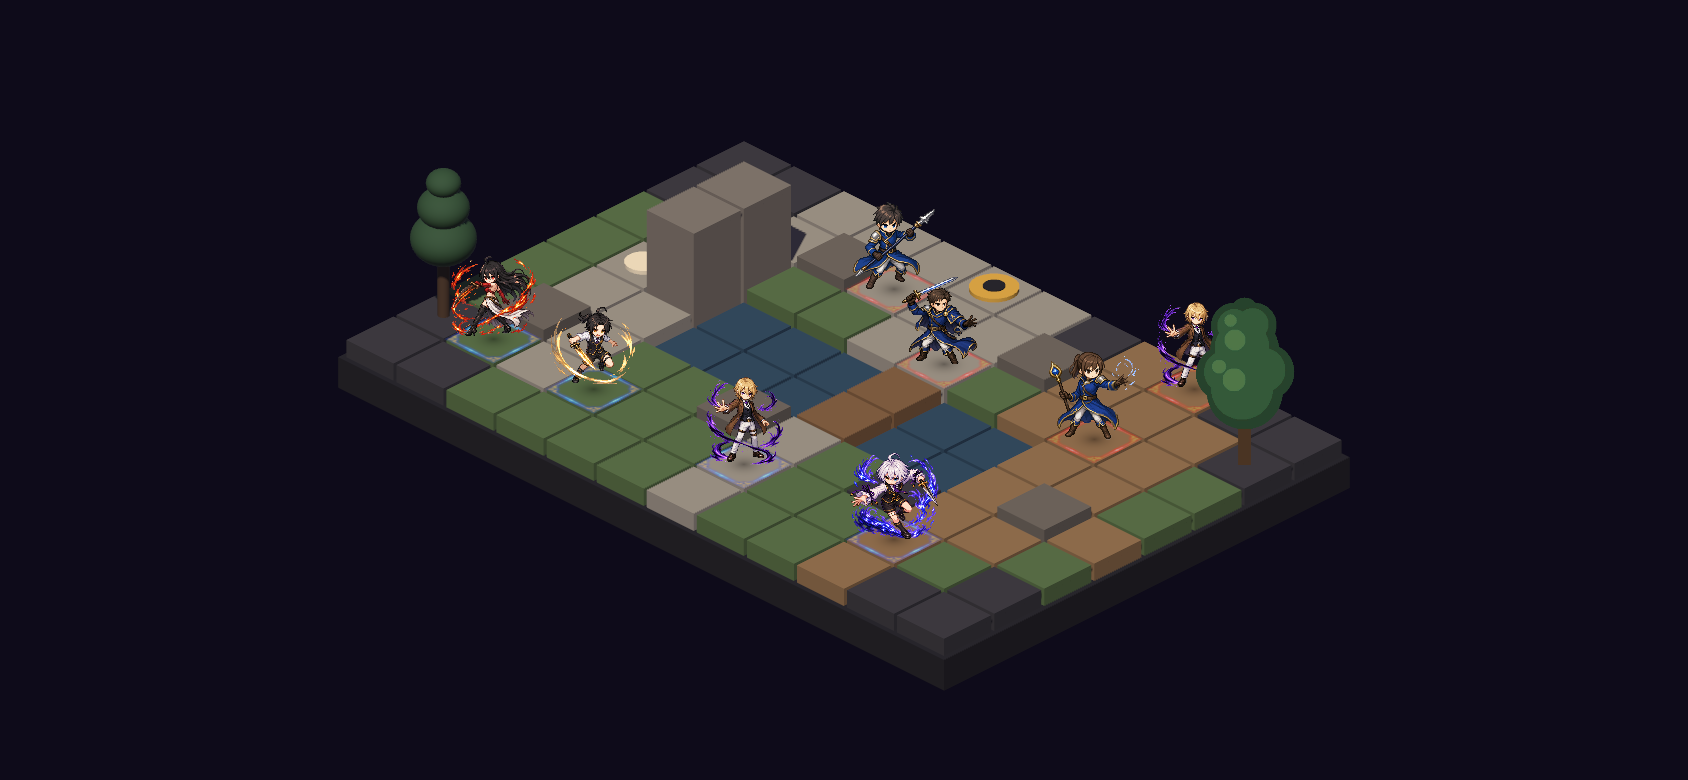
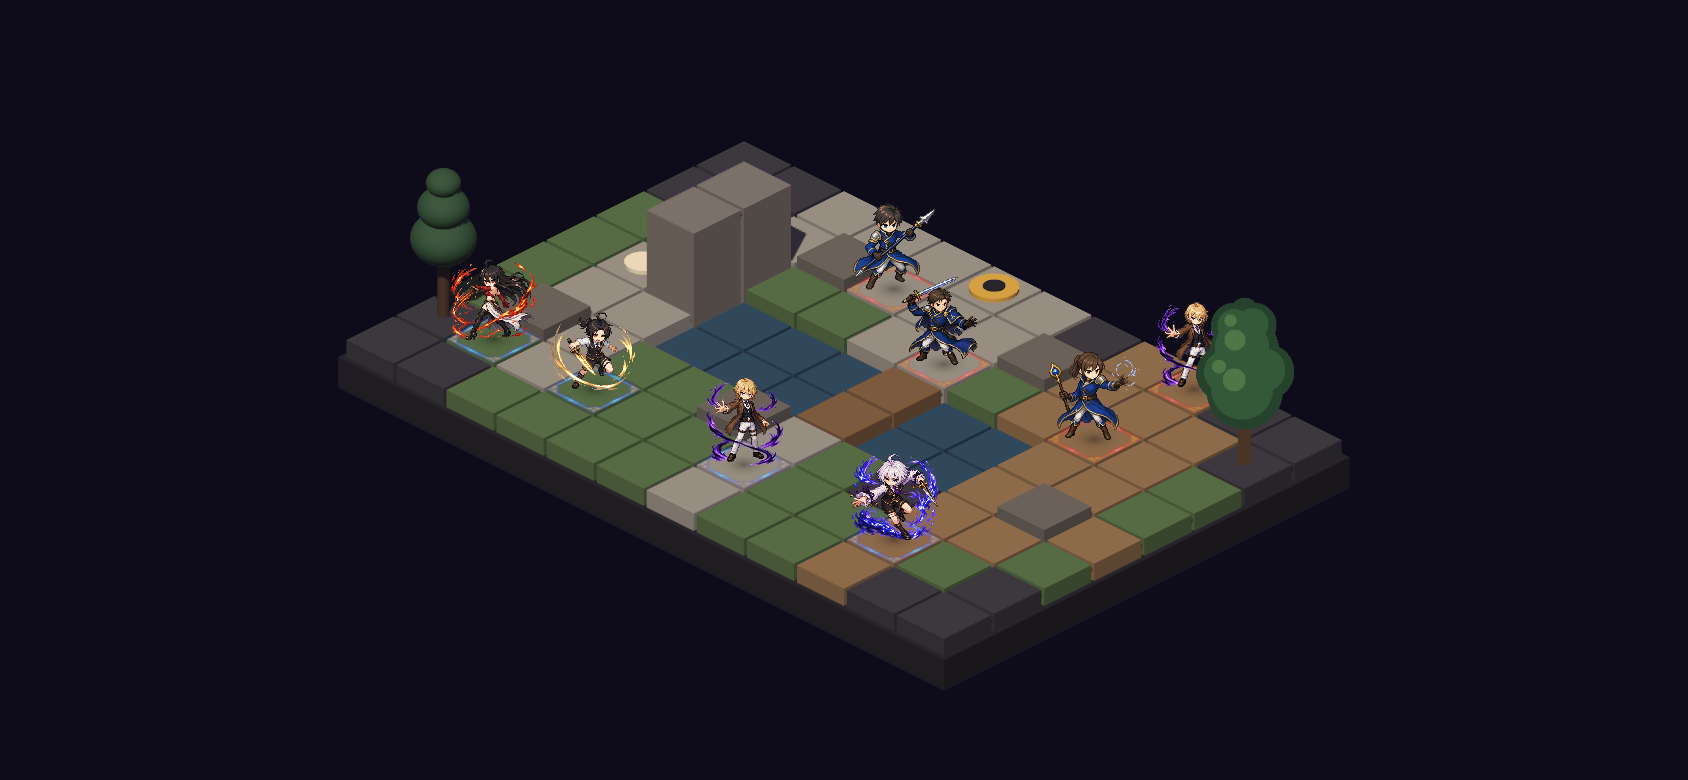
unity: stand every sprite's feet on the cell surface
The builder measures each character sprite's lowest opaque row and the
3D board test lowers the sprite by that much, so feet meet the cell top
regardless of the empty space below them. Sprite import settings shared
with M1 are unchanged; previews are re-rendered.

diff --git a/unity-prototype/Assets/Scripts/Battle/Board3D/Board3DTestController.cs b/unity-prototype/Assets/Scripts/Battle/Board3D/Board3DTestController.cs
@@ -31,6 +31,9 @@ namespace Srpg.Battle
         {
             public string id;
             public Sprite sprite;
+            // 絵の基準点（下端から2%）から、一番下の色のある行までの距離（絵の高さに対する割合。上が＋）。
+            // 組み立て時に絵ごとに測る。この分だけ絵を下げて、足の裏をマスの面にそろえる（原作者 2026-09-27）
+            public float footFromPivot;
         }
 
         [SerializeField] private Camera targetCamera;
@@ -67,6 +70,7 @@ namespace Srpg.Battle
             public float height;
             public float scale;
             public bool fitCell;
+            public float footFromPivot;
         }
 
         private readonly List<Billboard> billboards = new List<Billboard>();
@@ -151,7 +155,7 @@ namespace Srpg.Battle
             char m = Board3DLayout.MarkerAt(cell);
             bool enemy = m == 'E' || m == 'C';
             var top = Board3DLayout.TopCenter(cell);
-            float feet = 0.03f;   // 陣営の枠（0.014）より上
+            float feet = 0.005f;   // 足の裏はマスの面（重なり順は描く順で決めるので、浮かせなくてよい）
             if (footStyle == FootStyle.Pedestal)
             {
                 var pedestal = GameObject.CreatePrimitive(PrimitiveType.Cylinder);
@@ -175,9 +179,11 @@ namespace Srpg.Battle
             }
 
             Sprite sprite = null;
-            foreach (var entry in unitSprites) if (entry.id == id) sprite = entry.sprite;
+            float footFromPivot = 0f;
+            foreach (var entry in unitSprites)
+                if (entry.id == id) { sprite = entry.sprite; footFromPivot = entry.footFromPivot; }
             if (sprite == null) return;   // 絵のないキャラは足元だけ
-            AddBillboard($"Unit_{id}", sprite, top + Vector3.up * feet, unitHeight, true);
+            AddBillboard($"Unit_{id}", sprite, top + Vector3.up * feet, unitHeight, true, footFromPivot);
         }
 
         /// <summary>地面に寝かせた絵（足元の影・陣営の輪）。size はマスに対する直径</summary>
@@ -230,7 +236,7 @@ namespace Srpg.Battle
         }
 
         /// <summary>板に貼った絵を立てる。足元（絵の下端の中央）が position に来る</summary>
-        private void AddBillboard(string objectName, Sprite sprite, Vector3 position, float height, bool fitCell = false)
+        private void AddBillboard(string objectName, Sprite sprite, Vector3 position, float height, bool fitCell = false, float footFromPivot = 0f)
         {
             var holder = new GameObject(objectName).transform;
             holder.SetParent(boardRoot, false);
@@ -242,7 +248,8 @@ namespace Srpg.Battle
             spriteRenderer.sortingOrder = OrderCharacter;
             float scale = height / Mathf.Max(0.01f, sprite.bounds.size.y);
             spriteRenderer.transform.localScale = Vector3.one * scale;
-            billboards.Add(new Billboard { holder = holder, sprite = spriteRenderer.transform, height = height, scale = scale, fitCell = fitCell });
+            spriteRenderer.transform.localPosition = Vector3.down * (footFromPivot * height);
+            billboards.Add(new Billboard { holder = holder, sprite = spriteRenderer.transform, height = height, scale = scale, fitCell = fitCell, footFromPivot = footFromPivot });
         }
 
         /// <summary>仮の木（3Dの模型）: 幹と、重ねた3つの葉の塊</summary>
@@ -302,7 +309,8 @@ namespace Srpg.Battle
                 if (!b.fitCell) continue;
                 float height = Mathf.Lerp(b.height, topViewUnitSize, t);
                 b.sprite.localScale = Vector3.one * (b.scale * height / b.height);
-                b.sprite.localPosition = Vector3.down * (height * 0.5f * t);   // 絵の中心をマスの中央へ
+                // 立っているときは足の裏をマスの面に、真上では絵の中心をマスの中央へ
+                b.sprite.localPosition = Vector3.down * Mathf.Lerp(b.footFromPivot * height, height * 0.5f, t);
             }
         }
 

diff --git a/unity-prototype/Assets/Editor/Agent/Board3DTestBuilder.cs b/unity-prototype/Assets/Editor/Agent/Board3DTestBuilder.cs
@@ -121,6 +121,7 @@ namespace Srpg.EditorAgent
                 var element = spritesProp.GetArrayElementAtIndex(i);
                 element.FindPropertyRelative("id").stringValue = withSprite[i].id;
                 element.FindPropertyRelative("sprite").objectReferenceValue = withSprite[i].sprite;
+                element.FindPropertyRelative("footFromPivot").floatValue = FootFromPivot(withSprite[i].sprite, $"{TokenDir}/{withSprite[i].id}.png");
             }
             so.ApplyModifiedPropertiesWithoutUndo();
 
@@ -186,6 +187,31 @@ namespace Srpg.EditorAgent
             controller.ClearBoard();   // 盤面は再生したときに作る（作ったマテリアルはシーンに保存できないため）
             EditorSceneManager.SaveScene(scene, ScenePath);
             AssetDatabase.SaveAssets();
+        }
+
+        /// <summary>
+        /// 絵の基準点から、一番下の色のある行（不透明度50%以上が3画素以上並ぶ行）までの距離を、絵の高さに対する割合で返す。
+        /// 足の下の余白の量が絵ごとに違うため、この分だけ絵を下げて足の裏をマスの面にそろえる。
+        /// 足より下に広がる魔法の光なども「色のある行」に入るので、その絵は光の下端が面に来る
+        /// </summary>
+        private static float FootFromPivot(Sprite sprite, string path)
+        {
+            var tex = new Texture2D(2, 2, TextureFormat.RGBA32, false);
+            tex.LoadImage(File.ReadAllBytes(path));
+            var pixels = tex.GetPixels32();
+            int w = tex.width, h = tex.height, lowest = 0;
+            for (int y = 0; y < h; y++)   // y=0 が下端
+            {
+                int count = 0;
+                for (int x = 0; x < w && count < 3; x++)
+                    if (pixels[y * w + x].a >= 128) count++;
+                if (count >= 3) { lowest = y; break; }
+            }
+            UnityEngine.Object.DestroyImmediate(tex);
+            float pivot = sprite.pivot.y / sprite.rect.height;
+            float foot = (float)lowest / h;
+            Debug.Log($"[Board3DTestBuilder] feet {Path.GetFileName(path)}: 一番下の色 {foot:P1}・基準点 {pivot:P1}");
+            return foot - pivot;
         }
 
         /// <summary>ゲームのUI素材（盤面の枠）を複製し、マス1つ分の絵として読み込む</summary>
